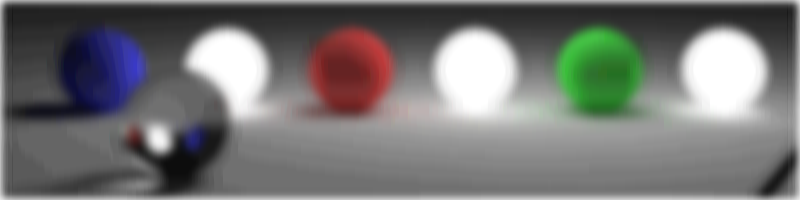
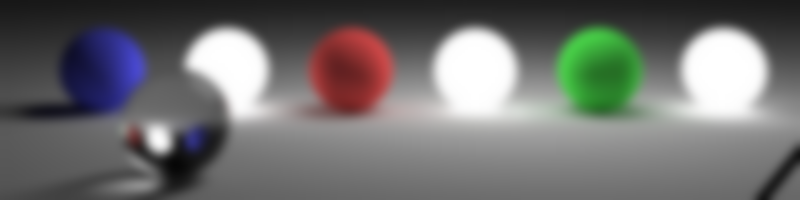
cairo: faster gaussian

Changed region(s): [[0.0, 0.0, 1.0, 1.0]]

diff --git a/cairo/fast_gaussian_blur.c b/cairo/fast_gaussian_blur.c
@@ -65,31 +65,61 @@ static void
 box_blur_h (v4uc *s, v4uc *t, int w, int h, int r)
 {
   float iarr = 1.0f / (r + r + 1.0f);
-  for (int i = 0; i < h; ++i) {
-    for (int j = 0; j < w; ++j) {
-      t[i*w+j] = (v4uc){0};
-      for (int k = -r; k <= r; ++k) {
-        if (j+k >= 0 && j + k < w)
-          t[i*w+j] += scaled_mult4(s[i*w+j+k], iarr);
-      }
+  for (int i = 0; i < h; ++i)
+    {
+      int ti = i * w, li = ti, ri = ti + r;
+      v4uc fv = s[ti], lv = s[ti+w-1];
+      v4f val = uc2f(fv) * (float)(r+1);
+      for(int j=0;j<r;++j)
+        val += uc2f(s[ti+j]);
+      for(int j=0;j<=r;++j)
+        {
+          val += uc2f(s[ri++])-uc2f(fv);
+          t[ti++] = f2uc(val*iarr);
+        }
+      for(int j=r+1;j<w-r;++j)
+        {
+          val += uc2f(s[ri++])-uc2f(s[li++]);
+          t[ti++] = f2uc(val*iarr);
+        }
+      for(int j=w-r;j<w;++j)
+        {
+          val += uc2f(lv)-uc2f(s[li++]);
+          t[ti++] = f2uc(val*iarr);
+        }
     }
-  }
 }
 
 static void
 box_blur_t (v4uc *s, v4uc *t, int w, int h, int r)
 {
   float iarr = 1.0f / (r + r + 1.0f);
-  for (int i = 0; i < h; ++i) {
-    for (int j = 0; j < w; ++j) {
-      t[i*w+j] = (v4uc){0};
-      for (int k = -r; k <= r; ++k) {
-        if (i + k >= 0 && i + k < h) {
-          t[i*w+j] += scaled_mult4 (s[(i+k)*w+j], iarr);
+  for (int i = 0; i < w; ++i)
+    {
+      int ti = i, li = ti, ri = ti+r*w;
+      v4uc fv = s[ti], lv = s[ti+w*(h-1)];
+      v4f val = uc2f(fv) * (float)(r+1);
+      for(int j=0; j<r; ++j)
+        val += uc2f(s[ti+j*w]);
+      for(int j=0; j<=r; ++j)
+        {
+          val += uc2f(s[ri]) - uc2f(fv);
+          t[ti] = f2uc(val*iarr);
+          ri+=w; ti+=w;
         }
-      }
+      for(int j=r+1; j<h-r; ++j)
+        {
+          val += uc2f(s[ri]) - uc2f(s[li]);
+          t[ti] = f2uc(val*iarr);
+          li+=w; ri+=w; ti+=w;
+        }
+      for(int j=h-r; j<h; ++j)
+        {
+          val += uc2f(lv) - uc2f(s[li]);
+          t[ti] = f2uc(val*iarr);
+          li+=w; ti+=w;
+        }
     }
-  }
 }
 
 static void
